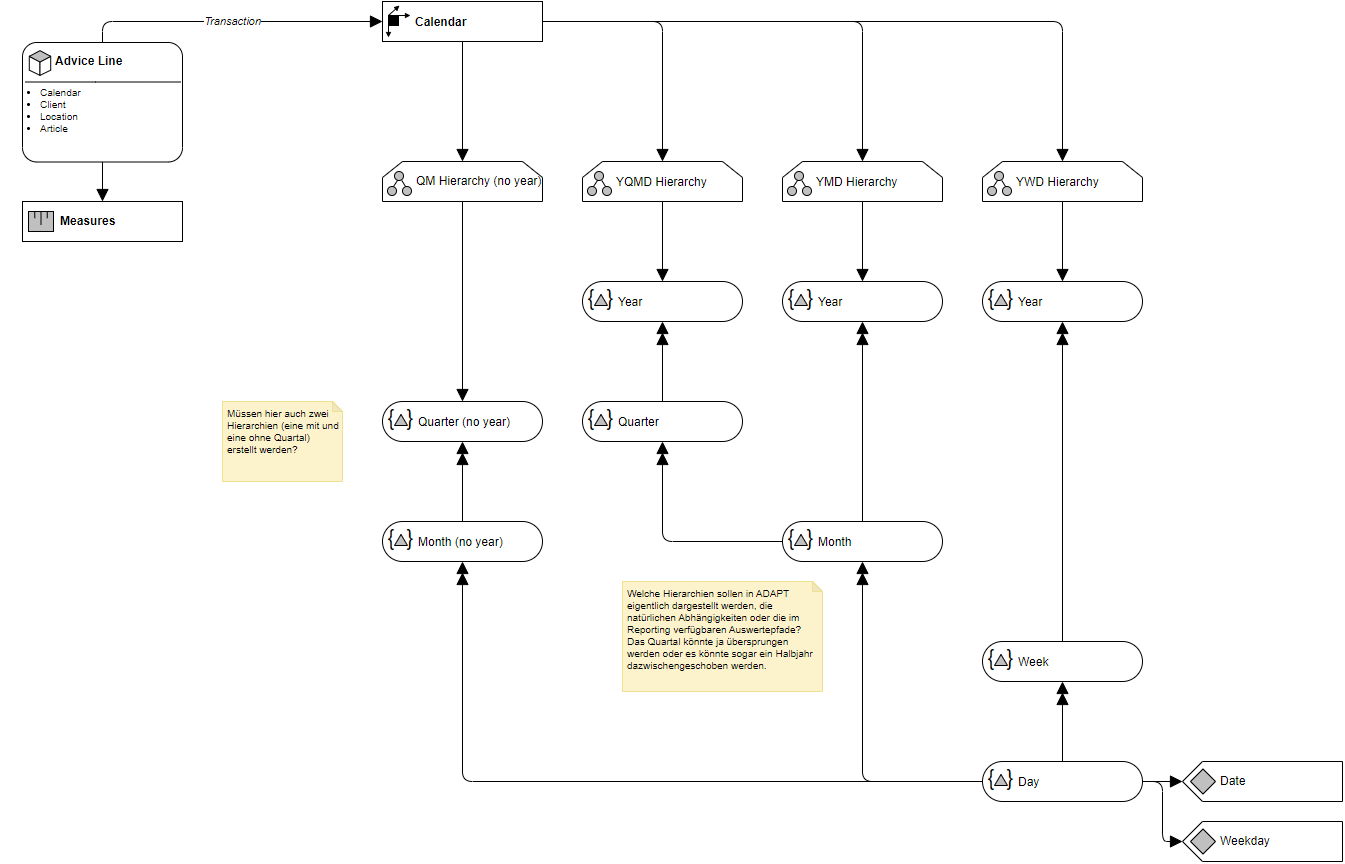
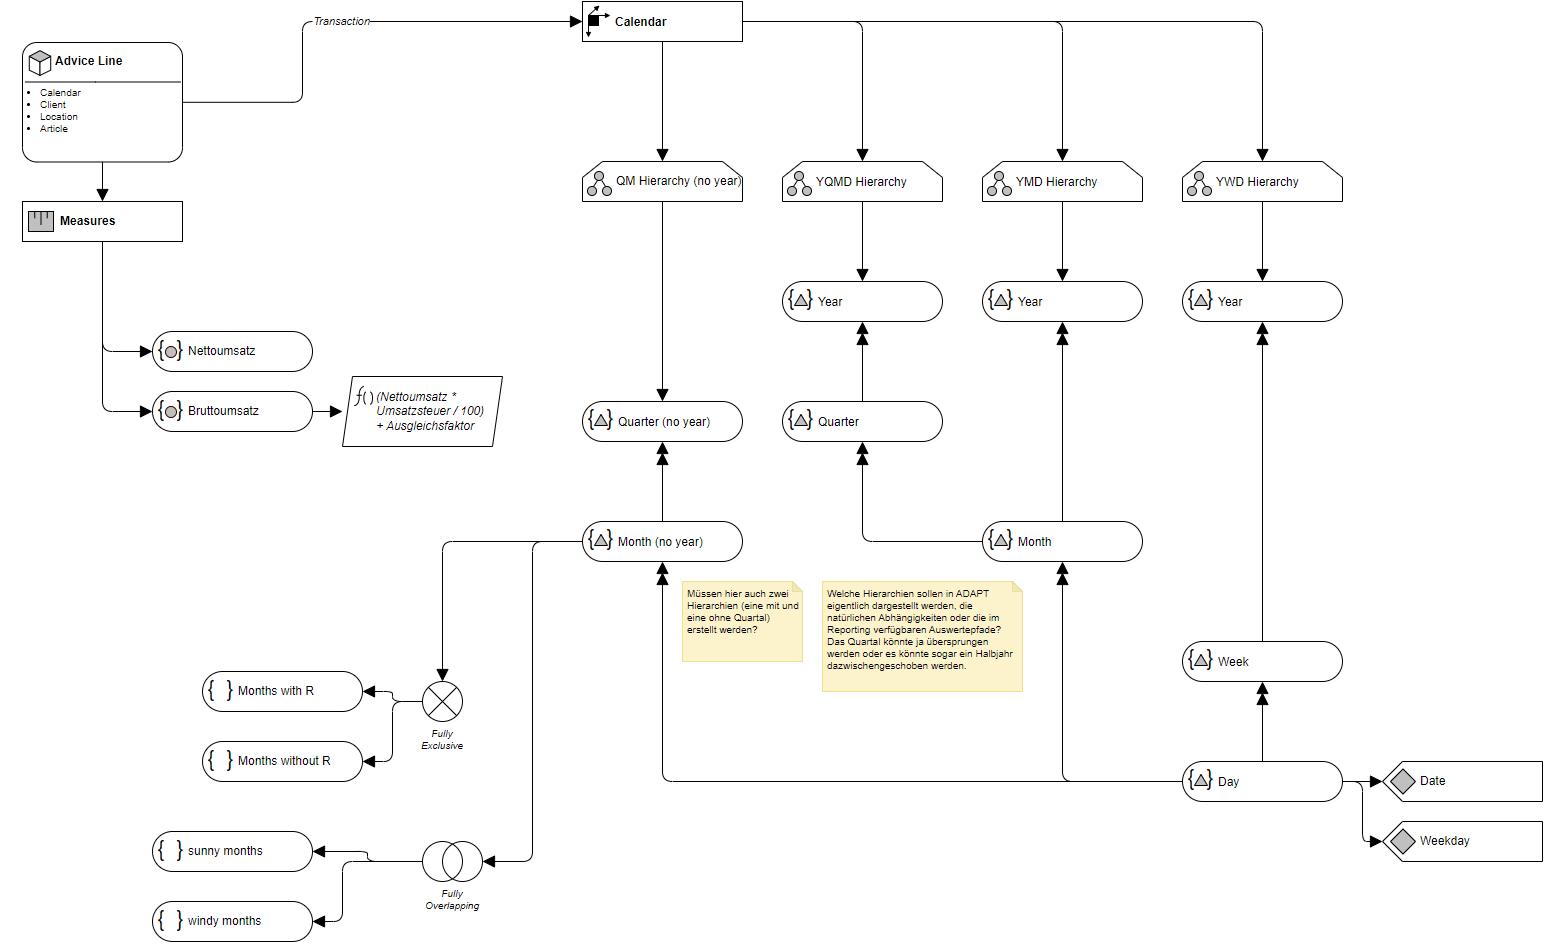
Automatisches Update via Skript

diff --git a/docs/DimCalendar.md b/docs/DimCalendar.md
@@ -25,6 +25,8 @@
 |DimCalendar.vdX0nlRlNV5u23rPeZXY-150|Attribute|Weekday|
 |DimCalendar.vdX0nlRlNV5u23rPeZXY-186|MeasureDimension|Measures|
 |DimCalendar.vdX0nlRlNV5u23rPeZXY-187|MeasureGroup|Advice Line|
+|DimCalendar.vdX0nlRlNV5u23rPeZXY-201|DimensionMember|Bruttoumsatz|
+|DimCalendar.vdX0nlRlNV5u23rPeZXY-296|DimensionMember|Nettoumsatz|
 
 ## recognized connections from b.telligent ADAPT library:
 
@@ -44,3 +46,5 @@
 |HierarchyLevel|Day|LoosePrecedence||Attribute|Weekday|DimCalendar.vdX0nlRlNV5u23rPeZXY-153|DimCalendar.vdX0nlRlNV5u23rPeZXY-109|DimCalendar.vdX0nlRlNV5u23rPeZXY-150
 |MeasureGroup|Advice Line|LoosePrecedence|Transaction|Dimension|Calendar|DimCalendar.vdX0nlRlNV5u23rPeZXY-171|DimCalendar.vdX0nlRlNV5u23rPeZXY-187|DimCalendar.f77LYvtL0lH_vqSuSwCJ-1
 |MeasureGroup|Advice Line|LoosePrecedence||MeasureDimension|Measures|DimCalendar.vdX0nlRlNV5u23rPeZXY-195|DimCalendar.vdX0nlRlNV5u23rPeZXY-187|DimCalendar.vdX0nlRlNV5u23rPeZXY-186
+|MeasureDimension|Measures|LoosePrecedence||DimensionMember|Bruttoumsatz|DimCalendar.vdX0nlRlNV5u23rPeZXY-202|DimCalendar.vdX0nlRlNV5u23rPeZXY-186|DimCalendar.vdX0nlRlNV5u23rPeZXY-201
+|MeasureDimension|Measures|LoosePrecedence||DimensionMember|Nettoumsatz|DimCalendar.vdX0nlRlNV5u23rPeZXY-301|DimCalendar.vdX0nlRlNV5u23rPeZXY-186|DimCalendar.vdX0nlRlNV5u23rPeZXY-296
